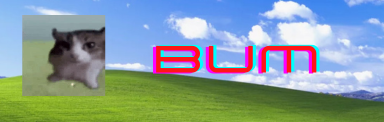
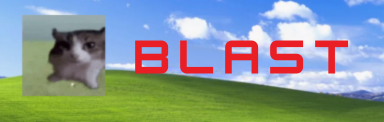
da

Changed region(s): [[0.3438, 0.3197, 0.9062, 0.6393], [0.5312, 0.6393, 0.5938, 0.6639]]

diff --git a/index.html b/index.html
@@ -2,33 +2,41 @@
 <html lang="en">
     <head>
         <meta charset="utf-8">
-        <title>BUM</title>
+        <title>DEEP BLAST</title>
         <meta content="Retardio" property="og:title">
         <meta content="Retardio" property="og:description">
         <meta content="Retardio" name="description">
         <meta content="viewport-fit=cover, width=device-width, initial-scale=1.0, maximum-scale=1.0, user-scalable=0" name="viewport">
-        <link href="favicon.jpg" rel="icon">
-        <link as="image" href="/img/bg1final.gif" rel="preload">
-        <link as="image" href="/img/bg2final.gif" rel="preload">
-        <link as="image" href="/img/bg3final.gif" rel="preload">
-        <link as="image" href="/img/bg4final.gif" rel="preload">
-        <meta name="next-head-count" content="11">
-        <link rel="preload" href="/_next/static/media/a34f9d1faa5f3315-s.p.woff2" as="font" type="font/woff2" crossorigin="anonymous" data-next-font="size-adjust">
-        <link rel="preload" href="/_next/static/media/122c360d7fe6d395-s.p.woff2" as="font" type="font/woff2" crossorigin="anonymous" data-next-font="size-adjust">
-        <link rel="preload" href="/_next/static/css/4ac77aee3407eb44.css" as="style">
-        <link rel="stylesheet" href="_next/static/css/4ac77aee3407eb44.css" data-n-g="">
-        <link rel="preload" href="/_next/static/css/6c0f660eef64a21a.css" as="style">
-        <link rel="stylesheet" href="_next/static/css/6c0f660eef64a21a.css" data-n-p="">
+        
+        <!-- Ensure favicon is accessible across browsers -->
+        <link href="./favicon.png" rel="icon" type="image/png">
+        
+        <!-- Preload images with relative paths -->
+        <link as="image" href="./img/bg1final.webp" rel="preload">
+        <link as="image" href="./img/bg2final.webp" rel="preload">
+        
+        <!-- Preload fonts with correct crossorigin setting -->
+        <link rel="preload" href="./_next/static/media/a34f9d1faa5f3315-s.p.woff2" as="font" type="font/woff2" crossorigin="anonymous">
+        <link rel="preload" href="./_next/static/media/122c360d7fe6d395-s.p.woff2" as="font" type="font/woff2" crossorigin="anonymous">
+        
+        <!-- Load CSS with relative paths -->
+        <link rel="preload" href="./_next/static/css/4ac77aee3407eb44.css" as="style">
+        <link rel="stylesheet" href="./_next/static/css/4ac77aee3407eb44.css">
+        <link rel="preload" href="./_next/static/css/6c0f660eef64a21a.css" as="style">
+        <link rel="stylesheet" href="./_next/static/css/6c0f660eef64a21a.css">
+        
         <noscript data-n-css=""></noscript>
-        <script defer="" nomodule="" src="_next/static/chunks/polyfills-78c92fac7aa8fdd8.js"></script>
-        <script src="_next/static/chunks/webpack-f3eac41a2e48885c.js" defer=""></script>
-        <script src="_next/static/chunks/framework-ecc4130bc7a58a64.js" defer=""></script>
-        <script src="_next/static/chunks/main-364fdecca3e07137.js" defer=""></script>
-        <script src="_next/static/chunks/pages/_app-ea0ad7687cdba22d.js" defer=""></script>
-        <script src="_next/static/chunks/310-bd06e52c2fa1d2ab.js" defer=""></script>
-        <script src="_next/static/chunks/pages/index-f7739692eff7bd52.js" defer=""></script>
-        <script src="_next/static/3Dg3VmGhzsj5aGAN1_9Ie/_buildManifest.js" defer=""></script>
-        <script src="_next/static/3Dg3VmGhzsj5aGAN1_9Ie/_ssgManifest.js" defer=""></script>
+        
+        <!-- Load JS with relative paths for GitHub compatibility -->
+        <script defer="" nomodule="" src="./_next/static/chunks/polyfills-78c92fac7aa8fdd8.js"></script>
+        <script src="./_next/static/chunks/webpack-f3eac41a2e48885c.js" defer=""></script>
+        <script src="./_next/static/chunks/framework-ecc4130bc7a58a64.js" defer=""></script>
+        <script src="./_next/static/chunks/main-364fdecca3e07137.js" defer=""></script>
+        <script src="./_next/static/chunks/pages/_app-ea0ad7687cdba22d.js" defer=""></script>
+        <script src="./_next/static/chunks/310-bd06e52c2fa1d2ab.js" defer=""></script>
+        <script src="./_next/static/chunks/pages/index-f7739692eff7bd52.js" defer=""></script>
+        <script src="./_next/static/3Dg3VmGhzsj5aGAN1_9Ie/_buildManifest.js" defer=""></script>
+        <script src="./_next/static/3Dg3VmGhzsj5aGAN1_9Ie/_ssgManifest.js" defer=""></script>
     </head>
     <body class="min-h-screen bg-background font-sans antialiased __variable_d65c78">
         <div id="__next">
@@ -60,103 +68,67 @@
                 </script>
                 <div class="relative flex flex-col h-screen">
                     <main class="flex-grow">
-                        <section class="h-full bg-[url('/img/bg1final.webp')] bg-center bg-no-repeat bg-cover flex flex-col items-center justify-center gap-4">
+                        <section class="h-full bg-[url('./img/bg1final.webp')] bg-center bg-no-repeat bg-cover flex flex-col items-center justify-center gap-4">
                             <div class="w-full h-full flex flex-col gap-3 items-center justify-center max-w-7xl pt-12 pb-12 ">
                                 <div class="flex flex-row gap-6">
-                                    <a href="https://x.com/bumcat__" rel="noopener norefferer noreferrer">
+                                    <a href="https://x.com" rel="noopener noreferrer">
                                         <div class="relative shadow-black/5 shadow-none rounded-large" style="max-width:fit-content">
-                                            <img src="img/RetardioShop.gif" class="relative z-10 opacity-100 shadow-black/5 data-[loaded=true]:opacity-100 shadow-none transition-transform-opacity motion-reduce:transition-none !duration-300 sm:w-[200px] w-[150px] cursor-pointer rounded-none">
+                                            <img src="./img/RetardioShop.gif" class="relative z-10 opacity-100 shadow-black/5 data-[loaded=true]:opacity-100 shadow-none transition-transform-opacity motion-reduce:transition-none !duration-300 sm:w-[200px] w-[150px] cursor-pointer rounded-none">
                                         </div>
                                     </a>
                                 </div>
                                 <div class="flex sm:flex-row flex-col gap-3 sm:p-0 p-4">
                                     <div class="window sm:w-[800px] w-full">
                                         <div class="title-bar">
-                                            <div class="title-bar-text">✨ BUM ✨</div>
+                                            <div class="title-bar-text">✨ BLAST ✨</div>
                                             <div class="title-bar-controls">
                                                 <button aria-label="Minimize"></button>
                                                 <button aria-label="Maximize"></button>
                                                 <button aria-label="Close"></button>
                                             </div>
                                         </div>
-                                        <div class="window-body bg-[url('/img/retardioscreen1.webp')] bg-center bg-no-repeat bg-cover">
+                                        <div class="window-body bg-[url('./img/retardioscreen1.webp')] bg-center bg-no-repeat bg-cover">
                                             <div class="flex flex-col items-center justify-center">
                                                 <div class="relative shadow-black/5 shadow-none rounded-large" style="max-width:450px">
-                                                    <img src="img/logo.png" class="relative z-10 opacity-100 shadow-black/5 data-[loaded=true]:opacity-100 shadow-none transition-transform-opacity motion-reduce:transition-none !duration-300 rounded-large sm:w-full w-80" alt="logo" width="450">
+                                                    <img src="./img/logo.png" class="relative z-10 opacity-100 shadow-black/5 data-[loaded=true]:opacity-100 shadow-none transition-transform-opacity motion-reduce:transition-none !duration-300 rounded-large sm:w-full w-80" alt="logo" width="450">
                                                 </div>
                                                 <div class="flex flex-row gap-6 mt-16">
                                                     <div class="relative shadow-black/5 shadow-none rounded-large" style="max-width:fit-content">
-                                                        <img src="img/head.gif" class="relative z-10 opacity-100 shadow-black/5 data-[loaded=true]:opacity-100 shadow-none transition-transform-opacity motion-reduce:transition-none !duration-300 rounded-none sm:w-full w-[280px]" alt="pic">
+                                                        <img src="./img/head.gif" class="relative z-10 opacity-100 shadow-black/5 data-[loaded=true]:opacity-100 shadow-none transition-transform-opacity motion-reduce:transition-none !duration-300 rounded-none sm:w-full w-[280px]" alt="pic">
                                                     </div>
                                                     <div class="flex flex-col items-center justify-center gap-3">
-                                                        <p class="sm:text-3xl text-xl text-white">Bum Cat</p>
+                                                        <p class="sm:text-3xl text-xl text-white">DEEP BLAST</p>
                                                         <div class="flex flex-row flex-wrap items-center justify-center gap-1 w-[200px]">
                                                             <button class="sm:text-md text-xs">
-                                                                <a href="https://x.com/bumcat__" rel="noreferrer" target="_blank">Twitter</a>
+                                                                <a href="https://x.com" rel="noopener noreferrer" target="_blank">Twitter</a>
                                                             </button>
                                                             <button class="sm:text-md text-xs">
-                                                                <a href="https://t.me/+Q7CL7-9z9lY4YjJk" rel="noreferrer" target="_blank">Telegram</a>
+                                                                <a href="https://t.me/+UfdnUXKayW4xYmI0" rel="noopener noreferrer" target="_blank">Telegram</a>
                                                             </button>
                                                             <button class="sm:text-md text-xs">
-                                                                <a href="https://pump.fun/board" rel="noreferrer" target="_blank">PumpFun</a>
+                                                                <a href="https://pump.fun/board" rel="noopener noreferrer" target="_blank">PumpFun</a>
                                                             </button>
                                                             <button class="sm:text-md text-xs">
-                                                                <a href="https://dexscreener.com/" rel="noreferrer" target="_blank">DEX(soon)</a>
+                                                                <a href="https://dexscreener.com/" rel="noopener noreferrer" target="_blank">DEX(soon)</a>
                                                             </button>
-
                                                         </div>
                                                         <div class="relative shadow-black/5 shadow-none rounded-large" style="max-width:fit-content">
-                                                            <img src="img/banner.png" class="relative z-10 opacity-100 shadow-black/5 data-[loaded=true]:opacity-100 shadow-none transition-transform-opacity motion-reduce:transition-none !duration-300 rounded-none sm:block hidden" alt="banner">
+                                                            <img src="./img/banner.png" class="relative z-10 opacity-100 shadow-black/5 data-[loaded=true]:opacity-100 shadow-none transition-transform-opacity motion-reduce:transition-none !duration-300 rounded-none sm:block hidden" alt="banner">
                                                         </div>
                                                     </div>
                                                 </div>
                                             </div>
                                         </div>
-                                    </div>
-                                    <div class="flex flex-col gap-3">
                                         <div class="window sm:w-[250px] w-full">
                                             <div class="title-bar">
-                                                <div class="title-bar-text">✨ BUM ✨</div>
+                                                <div class="title-bar-text">✨ GOB ✨</div>
                                             </div>
                                             <div class="window-body">
-                                                <p class="text-md">How much do you like BUM</p>
                                                 <div class="field-row">
-                                                    <label for="range26">Low</label>
-                                                    <input id="range26" max="11" min="1" type="range" value="7">
-                                                    <label for="range27">High</label>
+                                                    <label for="range26">Hello!</label>
+                                                    <p>This is a paragraph box...</p>
                                                 </div>
                                             </div>
-                                            <div class="status-bar">
-                                                <p class="status-bar-field">Press F1 for help</p>
-                                                <p class="status-bar-field">Slide 1</p>
-                                                <p class="status-bar-field">CPU Usage: 14%</p>
-                                            </div>
-                                        </div>
-                                        <div class="flex sm:flex-col flex-row gap-3">
-                                            <div class="relative shadow-black/5 shadow-none rounded-large" style="max-width:250px">
-                                                <img src="img/0709.gif" class="relative z-10 opacity-100 shadow-black/5 data-[loaded=true]:opacity-100 shadow-none transition-transform-opacity motion-reduce:transition-none !duration-300 rounded-none aspect-square" alt="meme" width="250">
-                                            </div>
-                                            <div class="relative shadow-black/5 shadow-none rounded-large" style="max-width:250px">
-                                                <img src="img/4.gif" class="relative z-10 opacity-100 shadow-black/5 data-[loaded=true]:opacity-100 shadow-none transition-transform-opacity motion-reduce:transition-none !duration-300 rounded-none sm:aspect-auto aspect-square" alt="meme" width="250">
-                                            </div>
-                                        </div>
-                                    </div>
-                                </div>
-                                <div class="flex flex-row sm:gap-3 gap-0">
-                                    <div class="relative shadow-black/5 shadow-none rounded-large" style="max-width:320px">
-                                        <img src="img/RetardioShop.gif" class="relative z-10 opacity-100 shadow-black/5 data-[loaded=true]:opacity-100 shadow-none transition-transform-opacity motion-reduce:transition-none !duration-300 rounded-none sm:block hidden cursor-pointer" width="320">
-                                    </div>
-                                    <div class="window w-full">
-                                        <div class="title-bar">
-                                            <div class="title-bar-text">✨ BUM ✨</div>
-                                            <div class="title-bar-controls">
-                                                <button aria-label="Minimize"></button>
-                                                <button aria-label="Maximize"></button>
-                                                <button aria-label="Close"></button>
-                                            </div>
-                                        </div>
-                                        <div class="window-body">
-                                            <p class="sm:text-3xl text-[16px]">CA:here</p>
                                         </div>
                                     </div>
                                 </div>
@@ -166,21 +138,5 @@
                 </div>
             </div>
         </div>
-        <script id="__NEXT_DATA__" type="application/json">
-            {
-                "props": {
-                    "pageProps": {
-                    }
-                },
-                "page": "/",
-                "query": {
-                },
-                "buildId": "3Dg3VmGhzsj5aGAN1_9Ie",
-                "nextExport": true,
-                "autoExport": true,
-                "isFallback": false,
-                "scriptLoader": [
-                ]
-            }</script>
     </body>
 </html>
